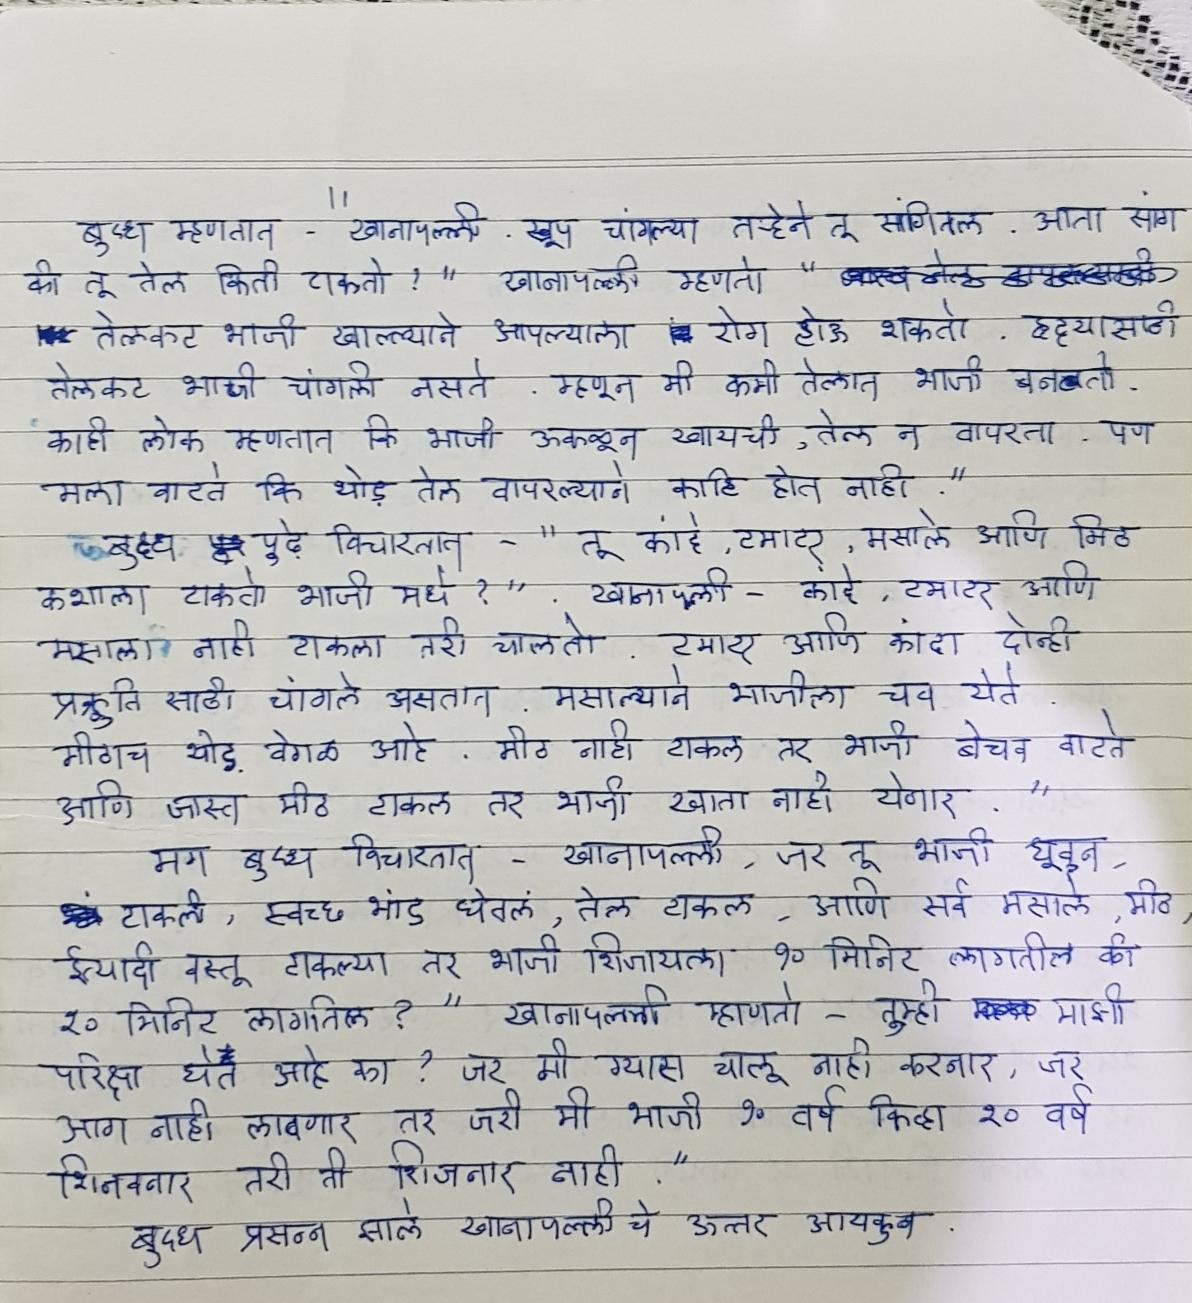
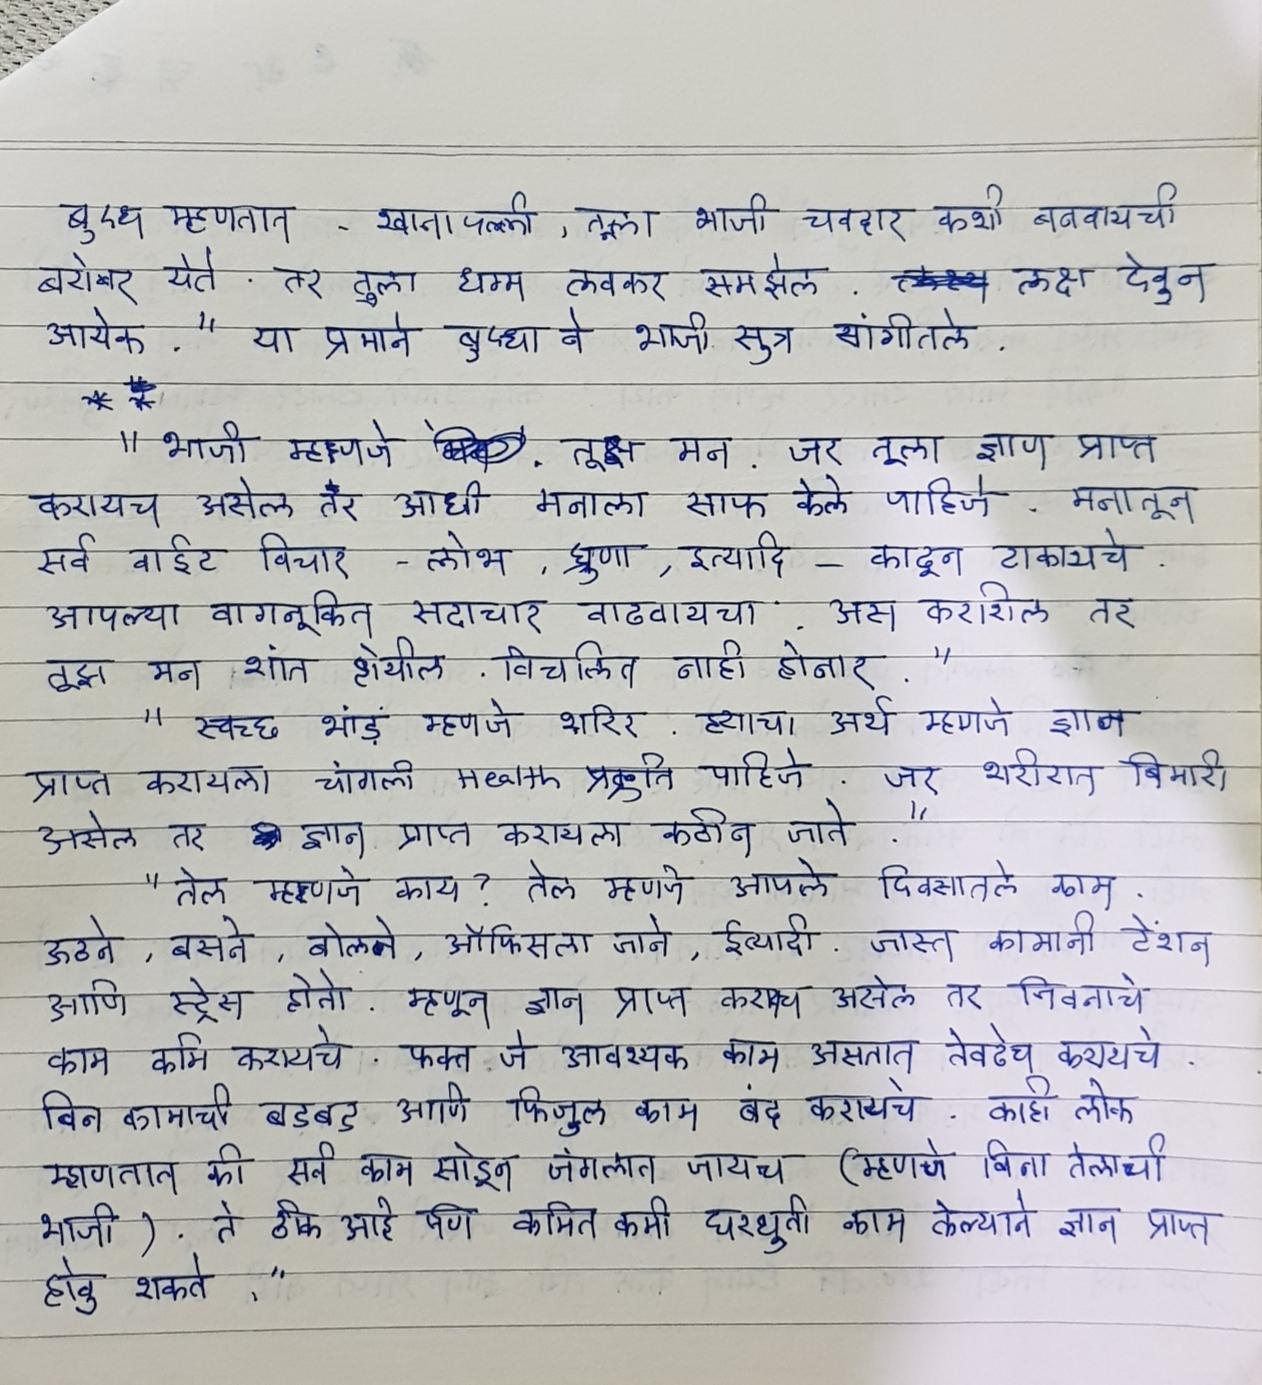
final changes

diff --git a/pages/Inaccuracydetector.py b/pages/Inaccuracydetector.py
@@ -82,7 +82,7 @@ def main():
     if uploaded_file is not None:
         # Display the uploaded image
         image = Image.open(uploaded_file)
-        st.image(image, caption='Uploaded Image', use_column_width=True)
+        st.image(image, caption='Uploaded Image', use_container_width=True)
 
         # Save the image to a temporary file
         image_path = "temp_image.jpg"
